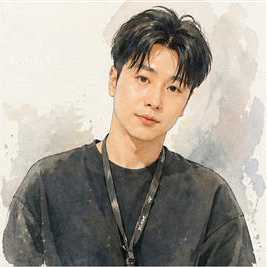
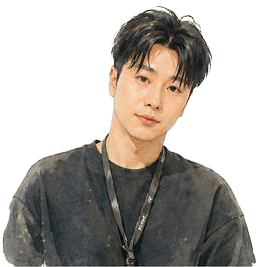
更換大頭照

diff --git a/components/Sections.jsx b/components/Sections.jsx
@@ -121,11 +121,7 @@ function About({ t }) {
         <div className="about-grid">
           <div className="about-portrait">
             <div className="about-portrait-inner">
-              <img src="uploads/kris-portrait.png" alt="Kris Lu" style={{ width: "100%", display: "block", borderRadius: "inherit" }} />
-            </div>
-            <div className="badge">
-              <span style={{ color: "var(--muted-foreground)", fontSize: 11, letterSpacing: "0.08em", textTransform: "uppercase", fontWeight: 600 }}>Portrait</span>
-              <span style={{ color: "var(--muted-foreground)" }}>placeholder</span>
+              <img src="uploads/kris-portrait.png" alt="Kris Lu" style={{ width: "100%", height: "100%", objectFit: "contain", objectPosition: "bottom" }} />
             </div>
           </div>
           <div>
